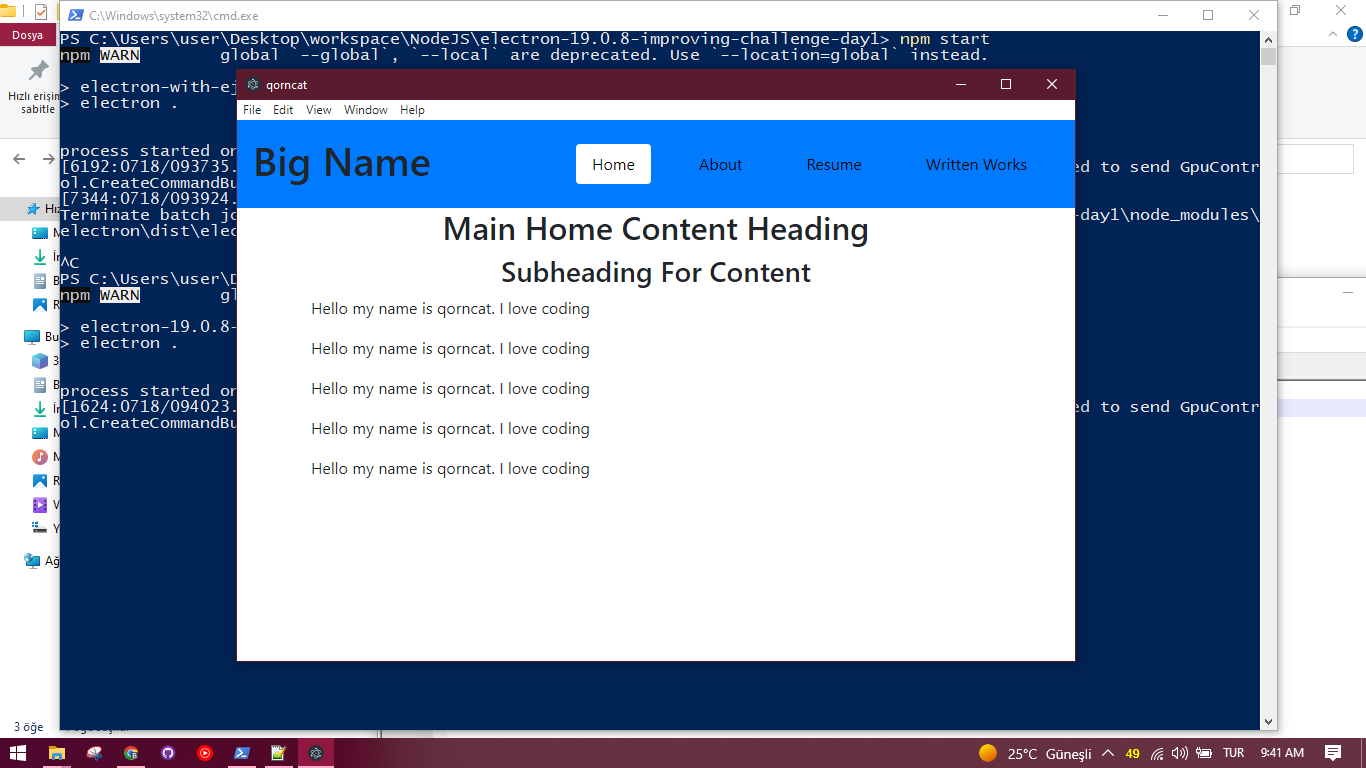
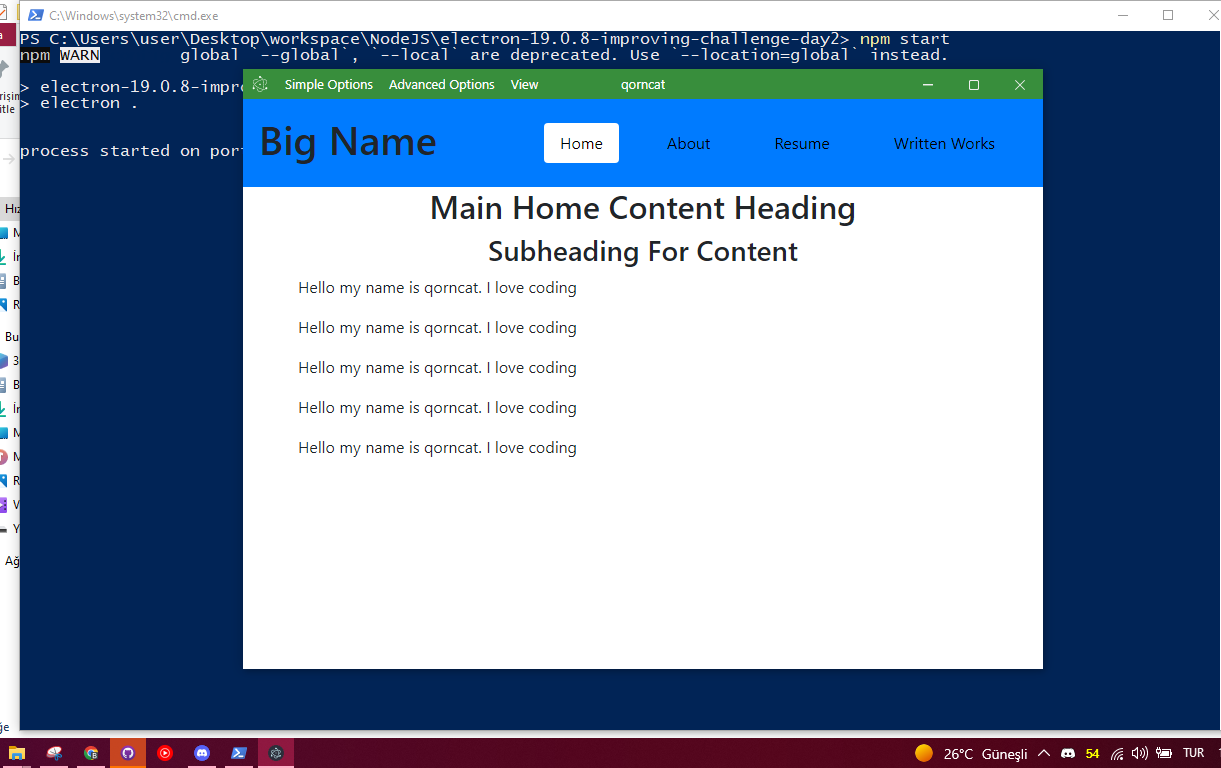
main

diff --git a/README.md b/README.md
@@ -1,2 +1,11 @@
 # electron-19.0.8-improving-challenge-day2
  Custom GUI for Electron with EJS
+ 
+ NOTE: Don't change Express PORT because title bar module integrated with PORT
+ NOTE: Don't delete ExpressJS/styles/icon.svg, and you can replace :)
+ 
+ ```js
+ npm install
+ npm start
+ ```
+<img src="./scrshot.png"></img>
